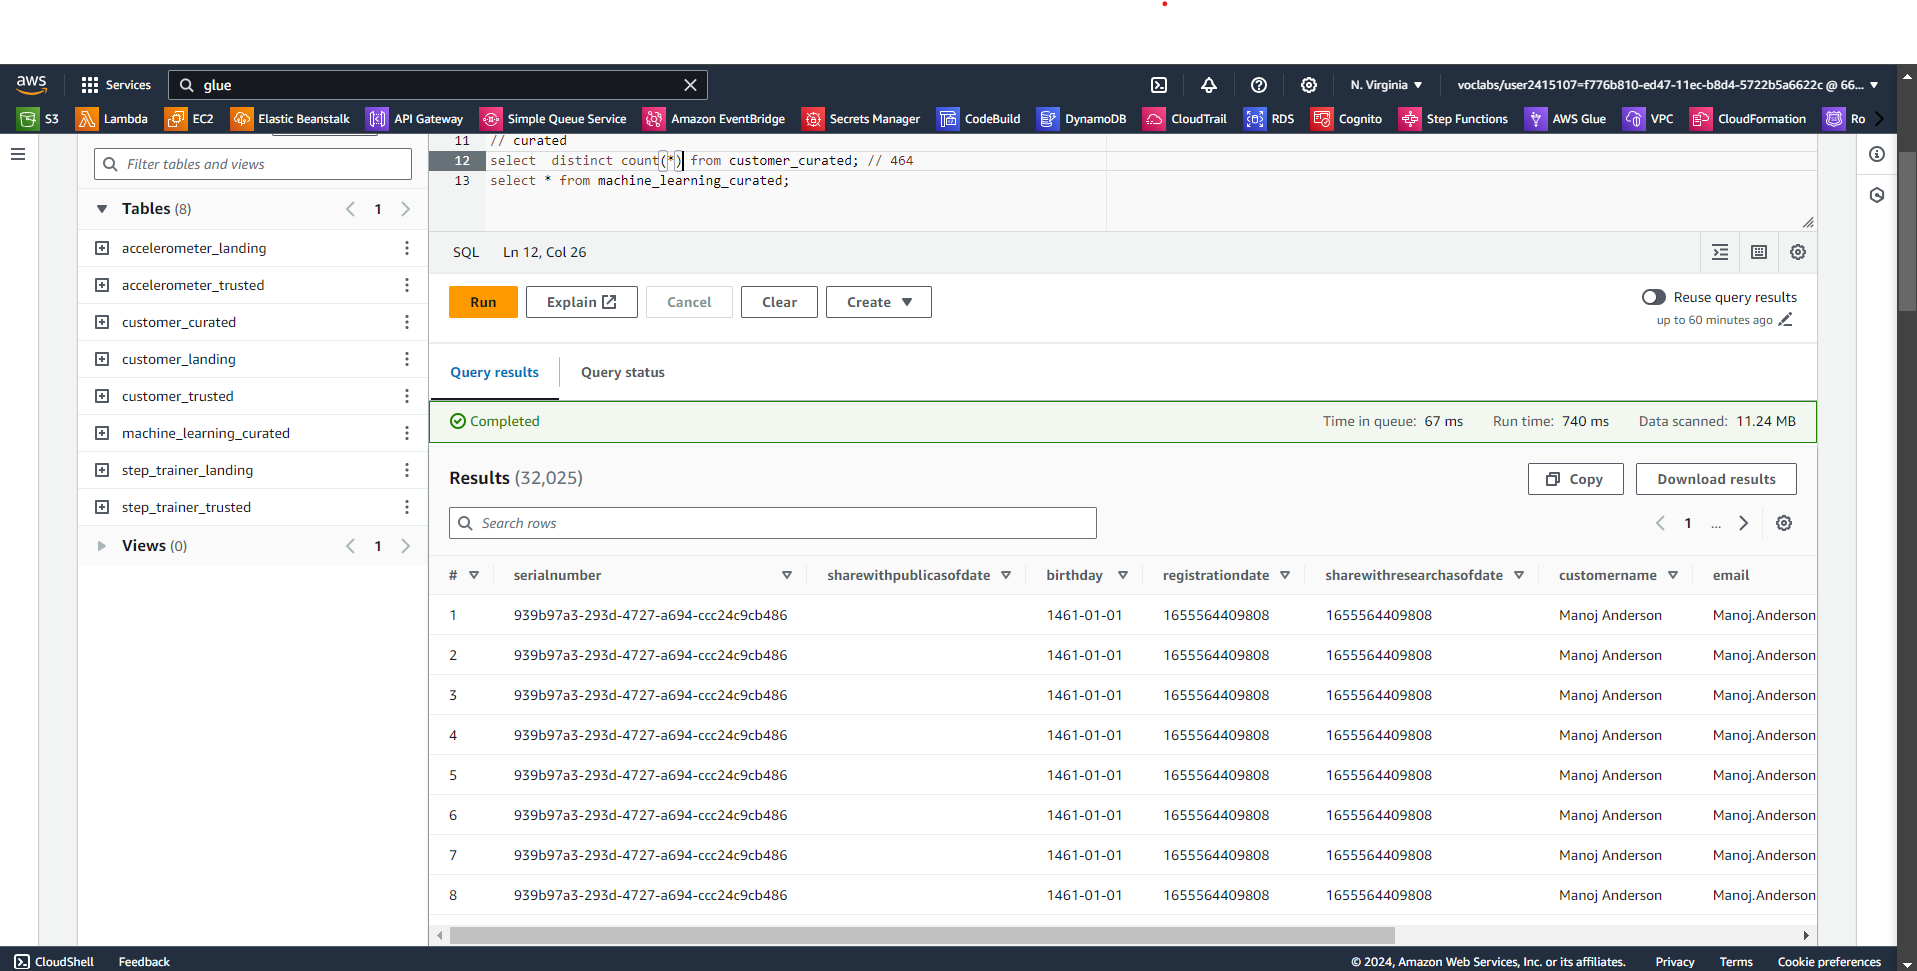
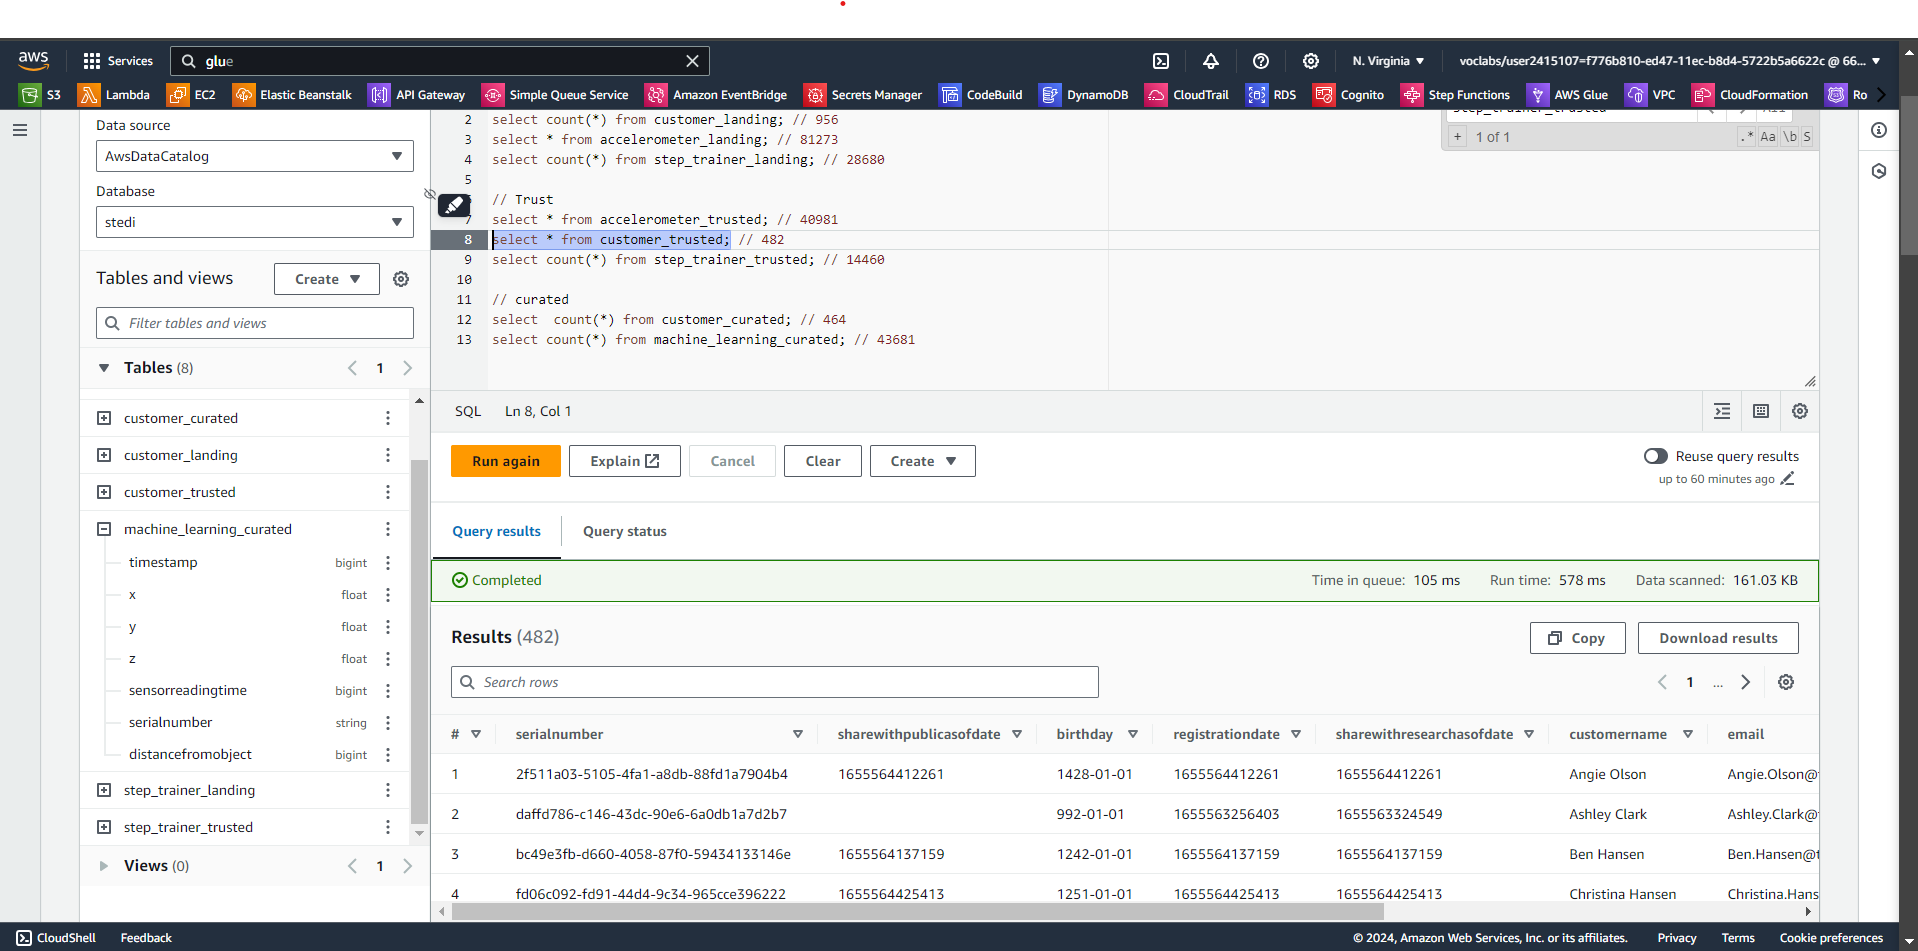
update

diff --git a/starter/step_trainer_landing_to_trust.py b/starter/step_trainer_landing_to_trust.py
@@ -4,6 +4,15 @@ from awsglue.utils import getResolvedOptions
 from pyspark.context import SparkContext
 from awsglue.context import GlueContext
 from awsglue.job import Job
+from awsglue import DynamicFrame
+
+
+def sparkSqlQuery(glueContext, query, mapping, transformation_ctx) -> DynamicFrame:
+    for alias, frame in mapping.items():
+        frame.toDF().createOrReplaceTempView(alias)
+    result = spark.sql(query)
+    return DynamicFrame.fromDF(result, glueContext, transformation_ctx)
+
 
 args = getResolvedOptions(sys.argv, ["JOB_NAME"])
 sc = SparkContext()
@@ -12,17 +21,8 @@ spark = glueContext.spark_session
 job = Job(glueContext)
 job.init(args["JOB_NAME"], args)
 
-# Script generated for node Customer Curated
-CustomerCurated_node1693745022656 = glueContext.create_dynamic_frame.from_options(
-    format_options={"multiline": False},
-    connection_type="s3",
-    format="json",
-    connection_options={"paths": ["s3://human-analytics/customer_curated/"], "recurse": True},
-    transformation_ctx="CustomerCurated_node1693745022656",
-)
-
-# Script generated for node Step Trainer Landing
-StepTrainerLanding_node1 = glueContext.create_dynamic_frame.from_options(
+# Script generated for node Step trainer landing
+Steptrainerlanding_node1 = glueContext.create_dynamic_frame.from_options(
     format_options={"multiline": False},
     connection_type="s3",
     format="json",
@@ -30,40 +30,50 @@ StepTrainerLanding_node1 = glueContext.create_dynamic_frame.from_options(
         "paths": ["s3://human-analytics/step_trainer_landing/"],
         "recurse": True,
     },
-    transformation_ctx="StepTrainerLanding_node1",
+    transformation_ctx="Steptrainerlanding_node1",
 )
 
-# Script generated for node Join
-Join_node1693745105307 = Join.apply(
-    frame1=StepTrainerLanding_node1,
-    frame2=CustomerCurated_node1693745022656,
-    keys1=["serialNumber"],
-    keys2=["serialNumber"],
-    transformation_ctx="Join_node1693745105307",
-)
-
-# Script generated for node Drop Fields
-DropFields_node1693745286659 = ApplyMapping.apply(
-    frame=Join_node1693745105307,
-    mappings=[
-        ("sensorReadingTime", "long", "sensorReadingTime", "long"),
-        ("serialNumber", "string", "serialNumber", "string"),
-        ("distanceFromObject", "int", "distanceFromObject", "int"),
-    ],
-    transformation_ctx="DropFields_node1693745286659",
-)
-
-# Script generated for node Step Trainer Trusted
-StepTrainerTrusted_node3 = glueContext.write_dynamic_frame.from_options(
-    frame=DropFields_node1693745286659,
+# Script generated for node Customer curated
+Customercurated_node1678180550487 = glueContext.create_dynamic_frame.from_options(
+    format_options={"multiline": False},
     connection_type="s3",
     format="json",
     connection_options={
-        "path": "s3://human-analytics/step_trainer_trusted/",
-        "compression": "snappy",
+        "paths": ["s3://human-analytics/customer_curated/"],
+        "recurse": True,
+    },
+    transformation_ctx="Customercurated_node1678180550487",
+)
+
+# Script generated for node Inner join after distinct
+SqlQuery0 = """
+SELECT stl.* FROM step_trainer_landing stl 
+INNER JOIN 
+(
+    SELECT DISTINCT serialnumber FROM customer_curated
+) AS cc
+ON stl.serialnumber = cc.serialnumber;
+"""
+Innerjoinafterdistinct_node1678180728097 = sparkSqlQuery(
+    glueContext,
+    query=SqlQuery0,
+    mapping={
+        "step_trainer_landing": Steptrainerlanding_node1,
+        "customer_curated": Customercurated_node1678180550487,
+    },
+    transformation_ctx="Innerjoinafterdistinct_node1678180728097",
+)
+
+# Script generated for node Step trainer trusted
+Steptrainertrusted_node3 = glueContext.write_dynamic_frame.from_options(
+    frame=Innerjoinafterdistinct_node1678180728097,
+    connection_type="s3",
+    format="json",
+    connection_options={
+        "path": "s3://human-analyticshuman-analytics/step_trainer_trusted/",
         "partitionKeys": [],
     },
-    transformation_ctx="StepTrainerTrusted_node3",
+    transformation_ctx="Steptrainertrusted_node3",
 )
 
 job.commit()

diff --git a/starter/machine_learning_curated.py b/starter/machine_learning_curated.py
@@ -4,6 +4,15 @@ from awsglue.utils import getResolvedOptions
 from pyspark.context import SparkContext
 from awsglue.context import GlueContext
 from awsglue.job import Job
+from awsglue import DynamicFrame
+
+
+def sparkSqlQuery(glueContext, query, mapping, transformation_ctx) -> DynamicFrame:
+    for alias, frame in mapping.items():
+        frame.toDF().createOrReplaceTempView(alias)
+    result = spark.sql(query)
+    return DynamicFrame.fromDF(result, glueContext, transformation_ctx)
+
 
 args = getResolvedOptions(sys.argv, ["JOB_NAME"])
 sc = SparkContext()
@@ -12,56 +21,54 @@ spark = glueContext.spark_session
 job = Job(glueContext)
 job.init(args["JOB_NAME"], args)
 
-# Script generated for node S3 bucket
-S3bucket_node1 = glueContext.create_dynamic_frame.from_options(
-    format_options={"multiline": False},
-    connection_type="s3",
-    format="json",
-    connection_options={
-        "paths": ["s3://human-analytics/accelerometer_trusted/"],
-        "recurse": True,
+# Script generated for node step trainer trusted
+steptrainertrusted_node1 = glueContext.create_dynamic_frame.from_catalog(
+    database="stedi",
+    table_name="step_trainer_trusted",
+    transformation_ctx="steptrainertrusted_node1",
+)
+
+# Script generated for node accelerometer trusted
+accelerometertrusted_node1678261934484 = glueContext.create_dynamic_frame.from_catalog(
+    database="stedi",
+    table_name="accelerometer_trusted",
+    transformation_ctx="accelerometertrusted_node1678261934484",
+)
+
+# Script generated for node SQL Query
+SqlQuery0 = """
+SELECT 
+    act.timestamp,
+    x, 
+    y, 
+    z,
+    stt.sensorreadingtime,
+    stt.serialnumber,
+    stt.distancefromobject
+FROM step_trainer_trusted stt
+INNER JOIN accelerometer_trusted act
+ON CAST(stt.sensorreadingtime AS VARCHAR(20)) = CAST(act.timestamp AS VARCHAR(20));
+"""
+SQLQuery_node1678261971818 = sparkSqlQuery(
+    glueContext,
+    query=SqlQuery0,
+    mapping={
+        "step_trainer_trusted": steptrainertrusted_node1,
+        "accelerometer_trusted": accelerometertrusted_node1678261934484,
     },
-    transformation_ctx="S3bucket_node1",
+    transformation_ctx="SQLQuery_node1678261971818",
 )
 
-# Script generated for node Amazon S3
-AmazonS3_node1692030001186 = glueContext.create_dynamic_frame.from_options(
-    format_options={"multiline": False},
-    connection_type="s3",
-    format="json",
-    connection_options={
-        "paths": ["s3://human-analytics/step_trainer_trusted/"],
-        "recurse": True,
-    },
-    transformation_ctx="AmazonS3_node1692030001186",
-)
-
-# Script generated for node Join
-Join_node1692034397757 = Join.apply(
-    frame1=S3bucket_node1,
-    frame2=AmazonS3_node1692030001186,
-    keys1=["timeStamp"],
-    keys2=["sensorReadingTime"],
-    transformation_ctx="Join_node1692034397757",
-)
-
-# Script generated for node Drop Fields
-DropFields_node1692034429091 = DropFields.apply(
-    frame=Join_node1692034397757,
-    paths=["user"],
-    transformation_ctx="DropFields_node1692034429091",
-)
-
-# Script generated for node S3 bucket
-S3bucket_node3 = glueContext.write_dynamic_frame.from_options(
-    frame=DropFields_node1692034429091,
+# Script generated for node machine learning curated
+machinelearningcurated_node3 = glueContext.write_dynamic_frame.from_options(
+    frame=SQLQuery_node1678261971818,
     connection_type="s3",
     format="json",
     connection_options={
         "path": "s3://human-analytics/machine_learning_curated/",
         "partitionKeys": [],
     },
-    transformation_ctx="S3bucket_node3",
+    transformation_ctx="machinelearningcurated_node3",
 )
 
 job.commit()

diff --git a/starter/customer_trusted_to_curated.py b/starter/customer_trusted_to_curated.py
@@ -4,15 +4,8 @@ from awsglue.utils import getResolvedOptions
 from pyspark.context import SparkContext
 from awsglue.context import GlueContext
 from awsglue.job import Job
-from awsglue import DynamicFrame
-
-
-def sparkSqlQuery(glueContext, query, mapping, transformation_ctx) -> DynamicFrame:
-    for alias, frame in mapping.items():
-        frame.toDF().createOrReplaceTempView(alias)
-    result = spark.sql(query)
-    return DynamicFrame.fromDF(result, glueContext, transformation_ctx)
-
+from awsglue.dynamicframe import DynamicFrame
+import re
 
 args = getResolvedOptions(sys.argv, ["JOB_NAME"])
 sc = SparkContext()
@@ -21,63 +14,44 @@ spark = glueContext.spark_session
 job = Job(glueContext)
 job.init(args["JOB_NAME"], args)
 
-# Script generated for node Accelerometer Landing Zone
-AccelerometerLandingZone_node1 = glueContext.create_dynamic_frame.from_options(
+# Script generated for node Customer Landing
+CustomerLanding_node1 = glueContext.create_dynamic_frame.from_options(
     format_options={"multiline": False},
     connection_type="s3",
     format="json",
     connection_options={
-        "paths": ["s3://human-analytics/accelerometer_landing/"],
+        "paths": ["s3://human-analytics/customer_landing/"],
         "recurse": True,
     },
-    transformation_ctx="AccelerometerLandingZone_node1",
+    transformation_ctx="CustomerLanding_node1",
 )
 
-# Script generated for node Customer Trusted Zone
-CustomerTrustedZone_node1679501265208 = glueContext.create_dynamic_frame.from_catalog(
-    database="stedi",
-    table_name="customer_trusted",
-    transformation_ctx="CustomerTrustedZone_node1679501265208",
+# Script generated for node Share With Research
+ShareWithResearch_node2 = Filter.apply(
+    frame=CustomerLanding_node1,
+    f=lambda row: (not (row["shareWithResearchAsOfDate"] == 0)),
+    transformation_ctx="ShareWithResearch_node2",
 )
 
-# Script generated for node ApplyJoinMapping
-ApplyJoinMapping_node2 = Join.apply(
-    frame1=AccelerometerLandingZone_node1,
-    frame2=CustomerTrustedZone_node1679501265208,
-    keys1=["user"],
-    keys2=["email"],
-    transformation_ctx="ApplyJoinMapping_node2",
-)
+# Script generated for node Drop Duplicates
+DropDuplicates_node3 = ShareWithResearch_node2.toDF().dropDuplicates(["email"])
 
-# Script generated for node SQL Query
-SqlQuery1531 = """
-select * from myDataSource 
-where shareWithResearchAsOfDate == 0
-"""
-SQLQuery_node1679541197827 = sparkSqlQuery(
+# Script generated for node Customer Trusted
+DropDuplicates_node3_dynamic_frame = DynamicFrame.fromDF(
+    DropDuplicates_node3,
     glueContext,
-    query=SqlQuery1531,
-    mapping={"myDataSource": ApplyJoinMapping_node2},
-    transformation_ctx="SQLQuery_node1679541197827",
+    "DropDuplicates_node3_dynamic_frame"
 )
 
-# Script generated for node Drop Fields
-DropFields_node1679501393679 = DropFields.apply(
-    frame=SQLQuery_node1679541197827,
-    paths=["user", "timeStamp", "x", "y", "z"],
-    transformation_ctx="DropFields_node1679501393679",
-)
-
-# Script generated for node Customer Curated Zone
-CustomerCuratedZone_node3 = glueContext.write_dynamic_frame.from_options(
-    frame=DropFields_node1679501393679,
+CustomerTrusted_node4 = glueContext.write_dynamic_frame.from_options(
+    frame=DropDuplicates_node3_dynamic_frame,
     connection_type="s3",
     format="json",
     connection_options={
         "path": "s3://human-analytics/customer_curated/",
         "partitionKeys": [],
     },
-    transformation_ctx="CustomerCuratedZone_node3",
+    transformation_ctx="CustomerTrusted_node4",
 )
 
 job.commit()
